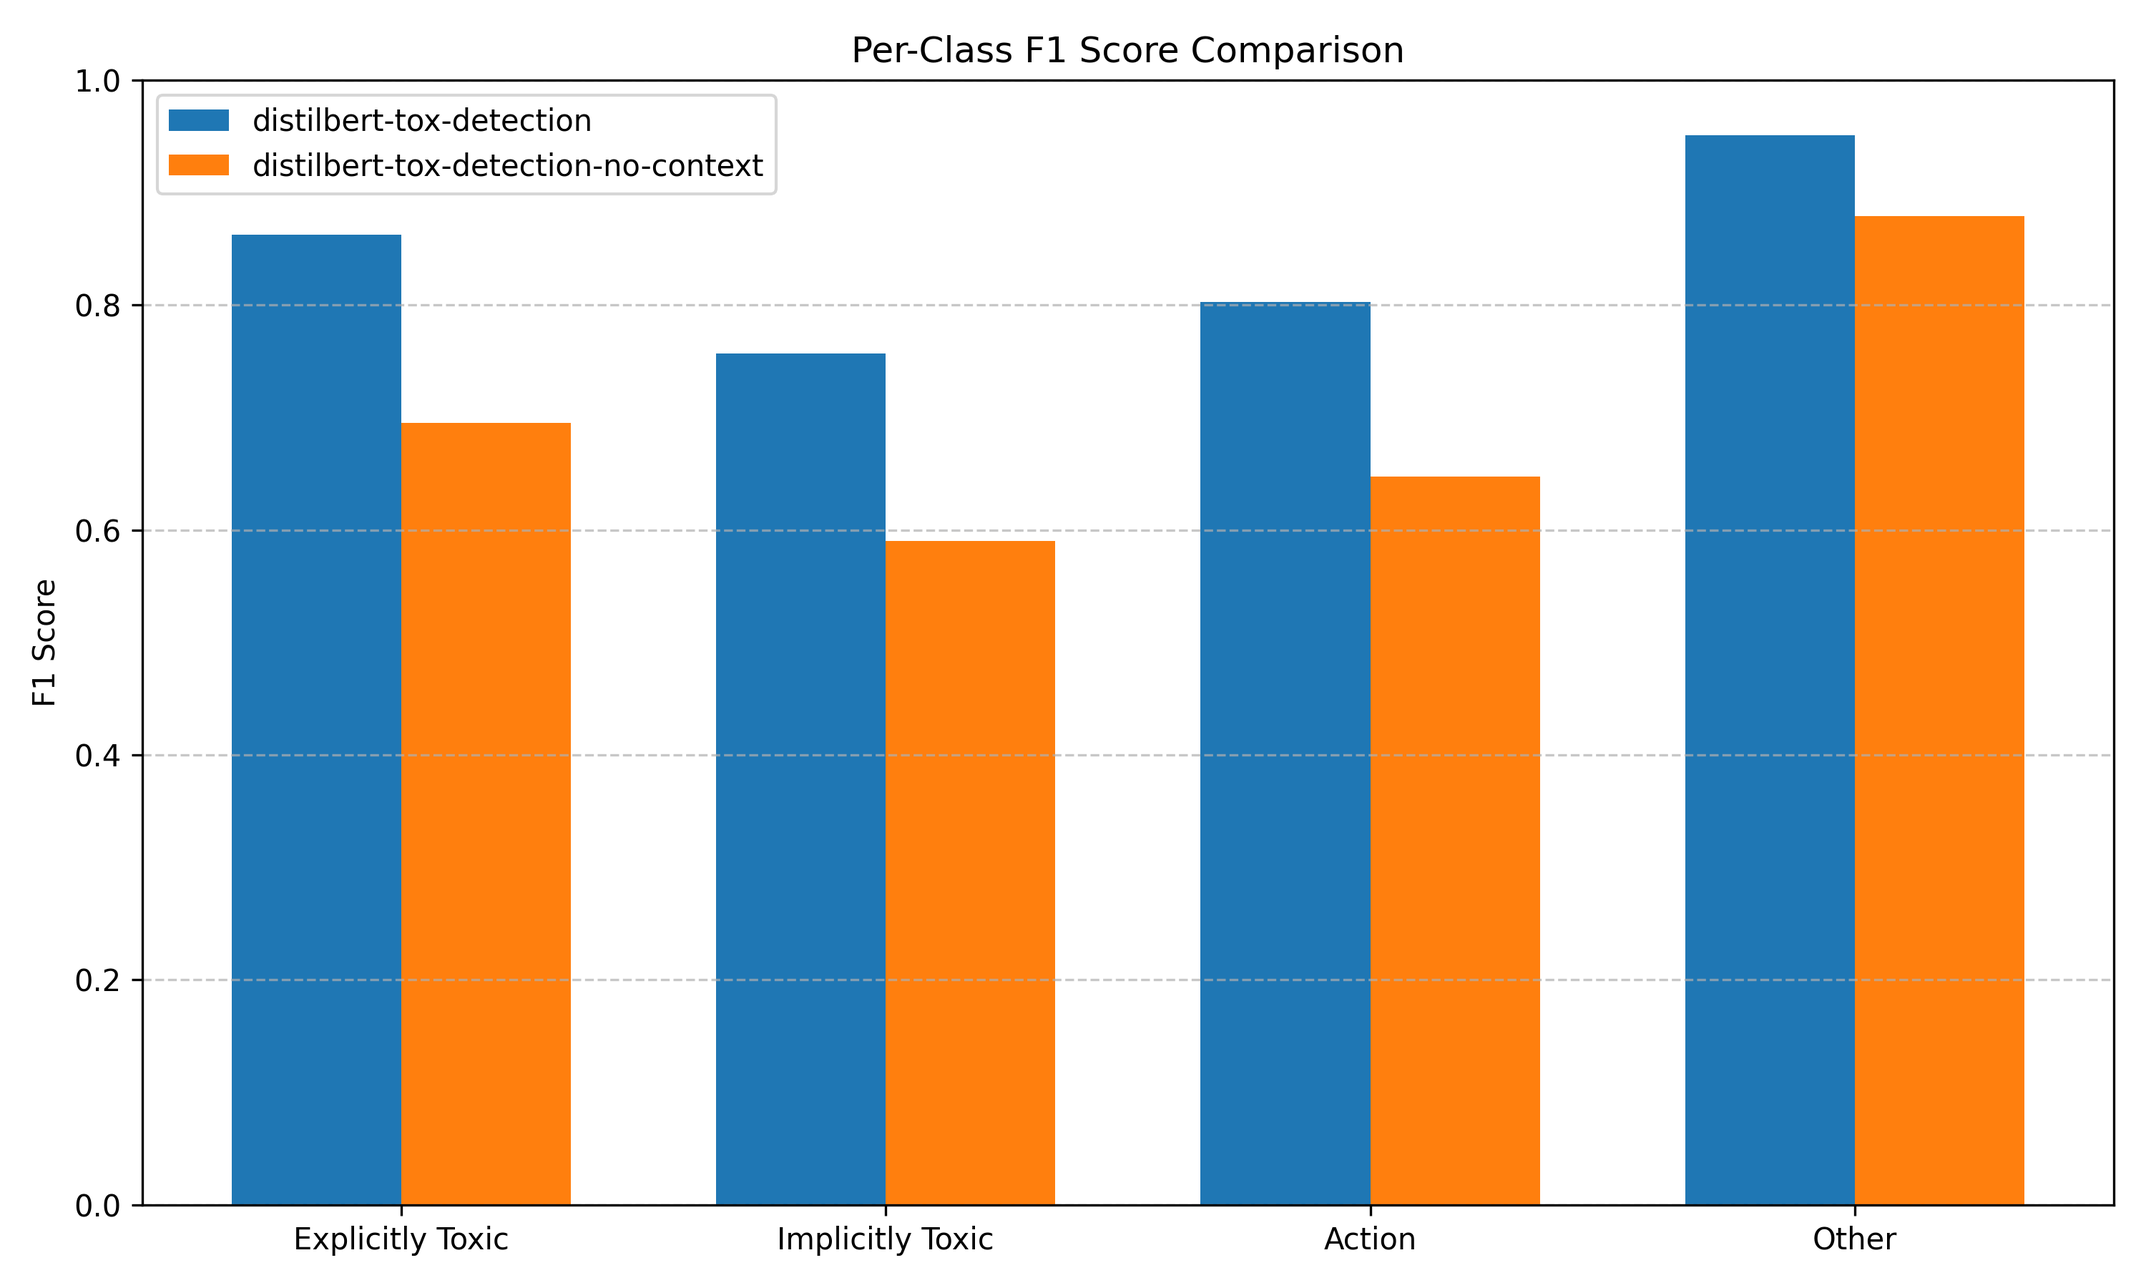
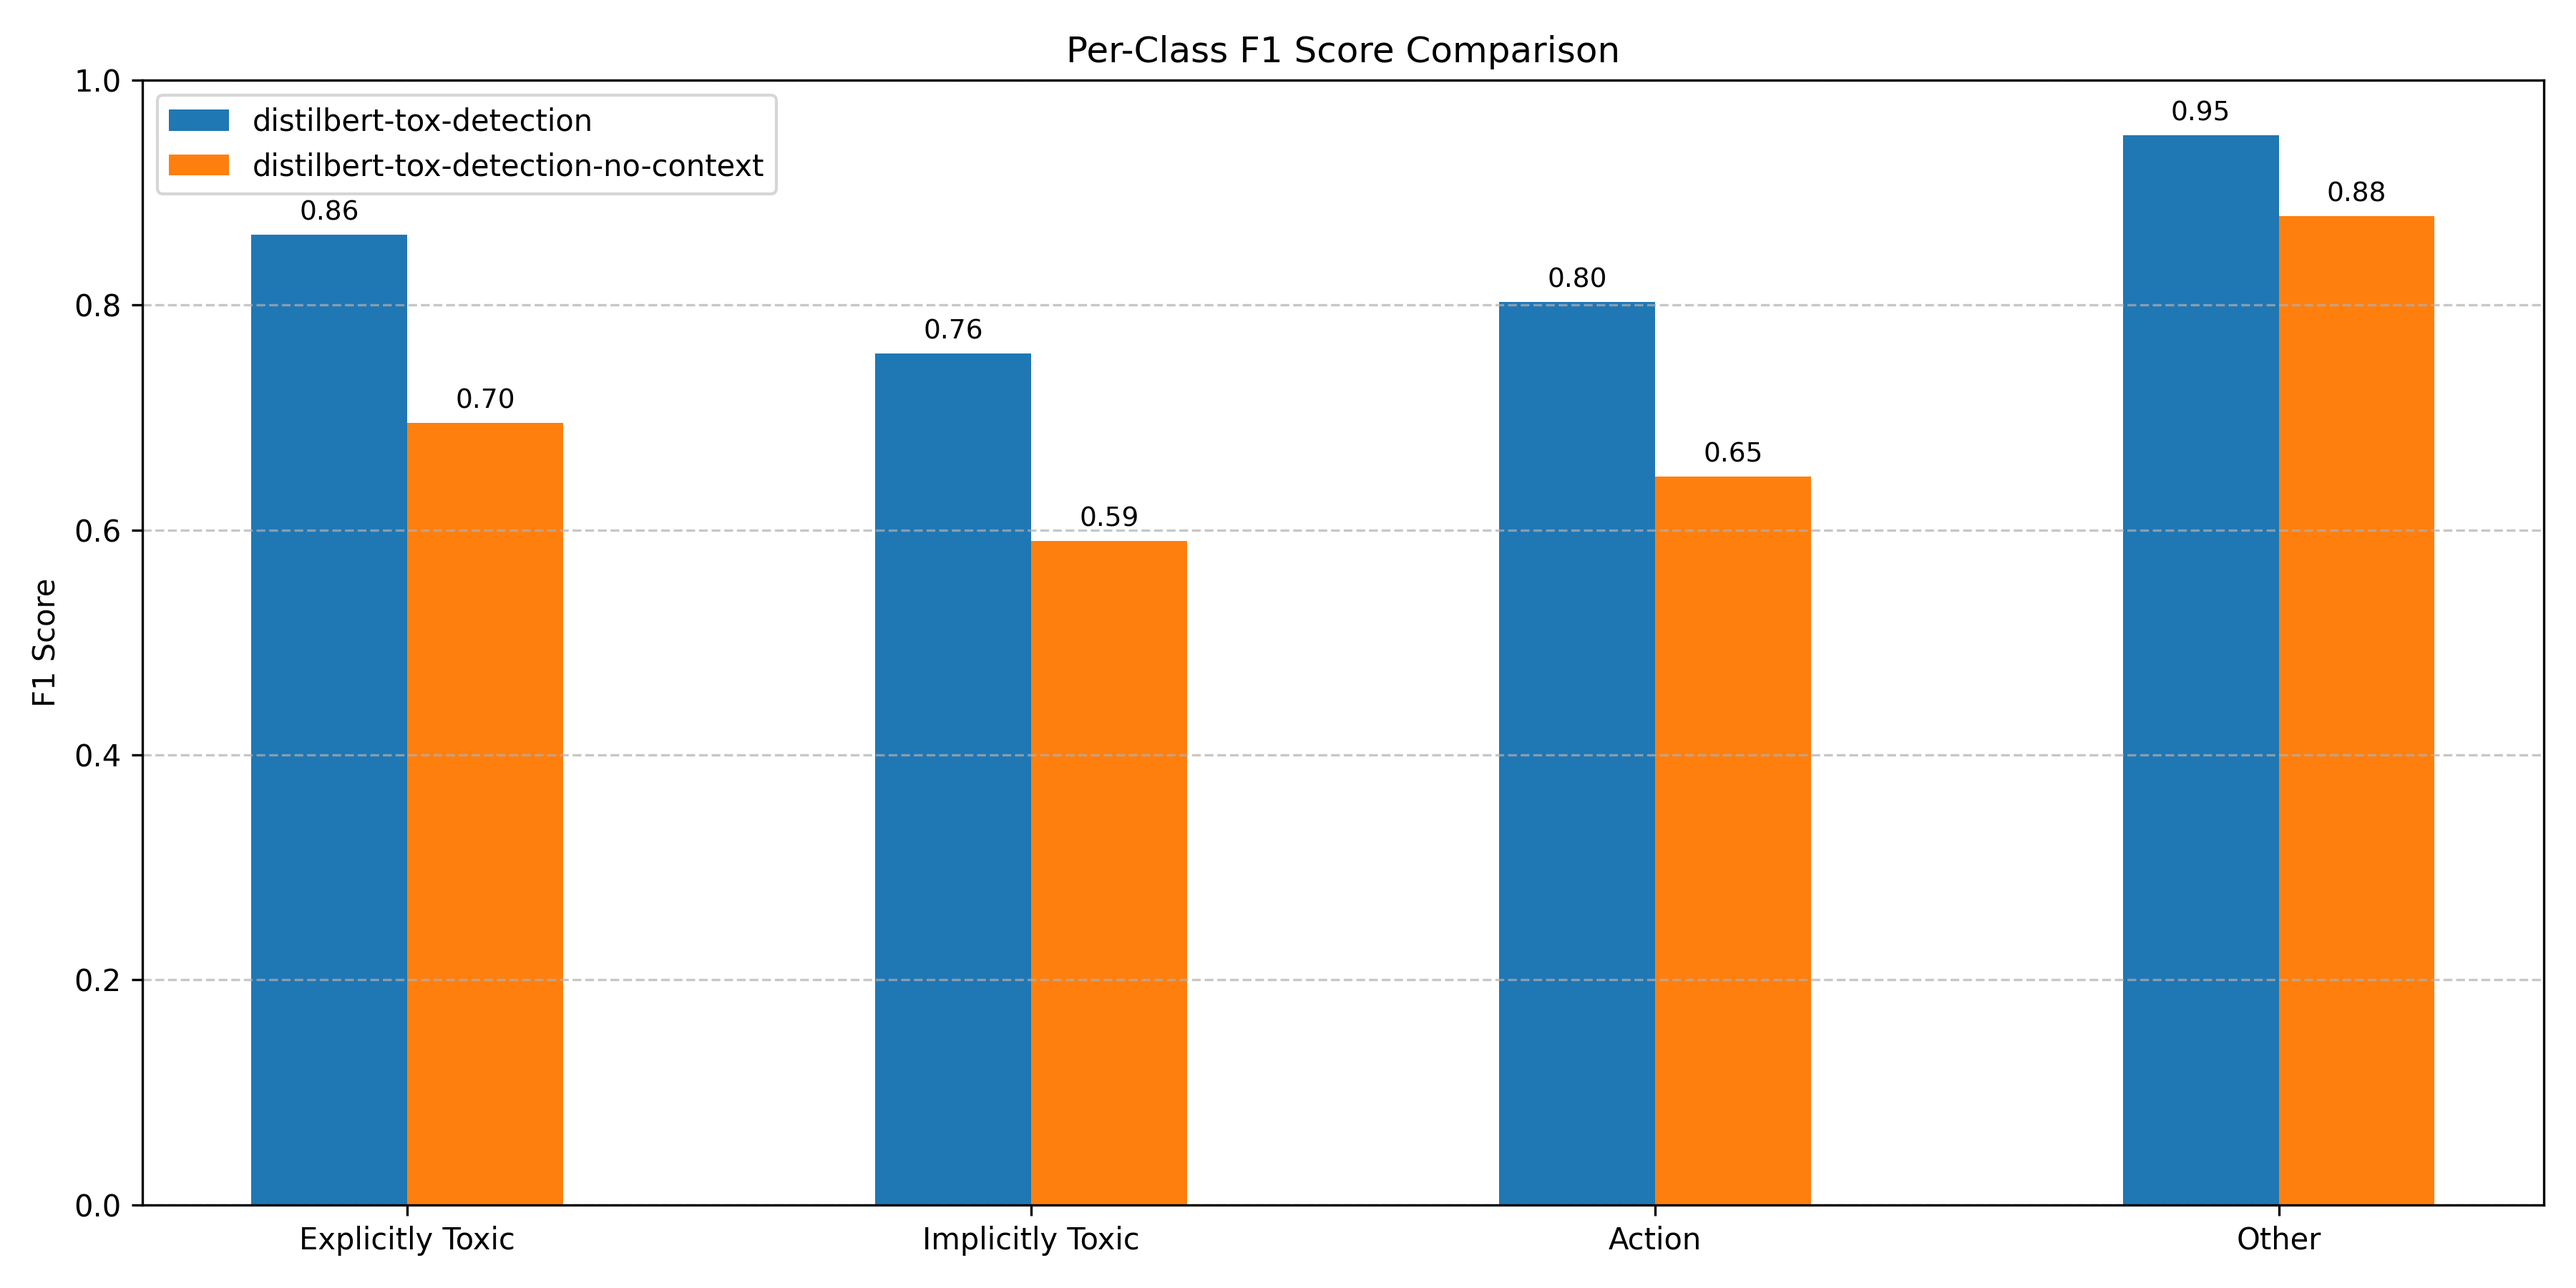
improved readability of plots

diff --git a/plot.py b/plot.py
@@ -17,7 +17,14 @@ def plot_overall_metrics(models, output_path, title):
     for i, model in enumerate(models):
         values = [model[m] for m in metrics]
         offset = (i - (len(models) - 1) / 2) * width
-        ax.bar(x + offset, values, width, label=model["model"])
+        bars = ax.bar(x + offset, values, width, label=model["model"])
+        for bar in bars:
+            height = bar.get_height()
+            ax.annotate(f'{height:.2f}',
+                        xy=(bar.get_x() + bar.get_width() / 2, height),
+                        xytext=(0, 3),
+                        textcoords="offset points",
+                        ha='center', va='bottom', fontsize=9)
 
     ax.set_ylabel("Score")
     ax.set_title(title)
@@ -38,7 +45,14 @@ def plot_class_metrics(models, class_labels, output_path, title):
 
     for i, model in enumerate(models):
         offset = (i - (len(models) - 1) / 2) * width
-        ax.bar(x + offset, model["f1"], width, label=model["model"])
+        bars = ax.bar(x + offset, model["f1"], width, label=model["model"])
+        for bar in bars:
+            height = bar.get_height()
+            ax.annotate(f'{height:.2f}',
+                        xy=(bar.get_x() + bar.get_width() / 2, height),
+                        xytext=(0, 3),
+                        textcoords="offset points",
+                        ha='center', va='bottom', fontsize=9)
 
     ax.set_ylabel("F1 Score")
     ax.set_title(title)
@@ -85,7 +99,7 @@ elif all(not is_scalar_metrics(m) for m in models):
     plot_class_metrics(
         models,
         args.class_labels,
-        os.path.join(args.output_dir, "per_class_f1_comparison.png"),
+        os.path.join(args.output_dir, "per_class_f1_comparison_no_context.png"),
         args.title2
     )
 else:
